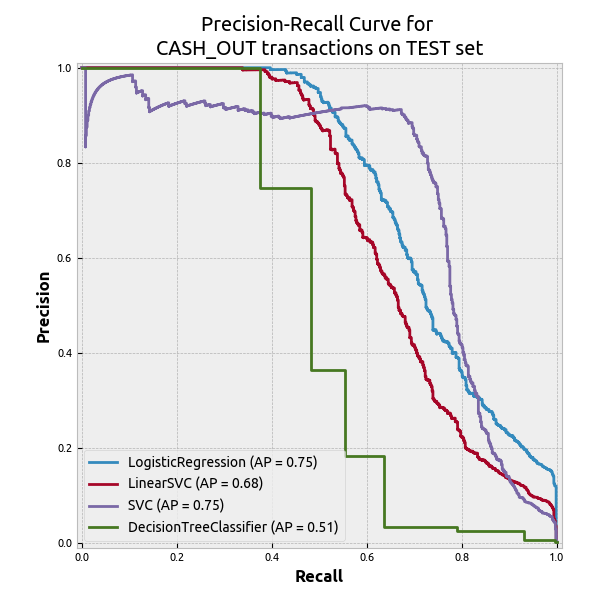
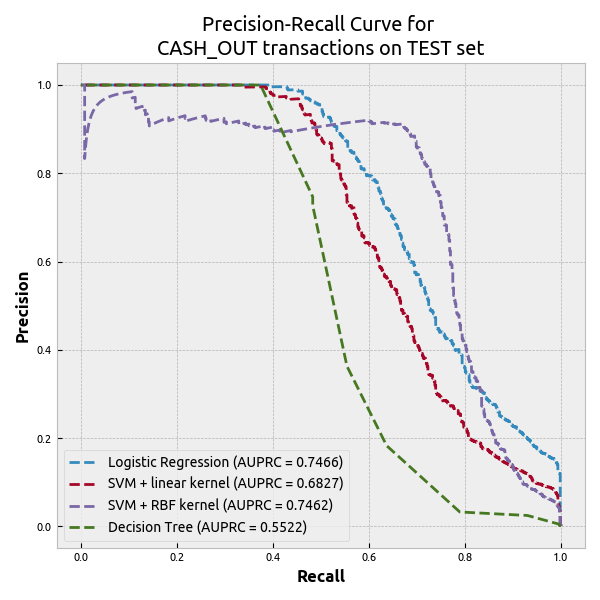
update: new model comparison logic to track AUPRC

diff --git a/experimentation/reproduce_oza_2018/src/evaluate_between_ideal_model_performance.py b/experimentation/reproduce_oza_2018/src/evaluate_between_ideal_model_performance.py
@@ -2,8 +2,9 @@ from pathlib import Path
 
 import matplotlib.pyplot as plt
 import matplotlib as mpl
+import numpy as np
 import pandas as pd
-from sklearn.metrics import PrecisionRecallDisplay
+from sklearn.metrics import precision_recall_curve, auc
 
 from absl import app, flags, logging
 
@@ -110,18 +111,22 @@ def main(_):
             utils.save_model(model, model_with_type_path)
         fitted_models[model_name] = model
 
-    def viz(X, y, label: str):
-        fig, ax = plt.subplots(figsize=(6, 6))
-
+    def compute(X, y, label: str, metrics: dict[str, list] | None = None):
+        model_precision_recall_auprc: list[
+            tuple[str, np.ndarray, np.ndarray, float]
+        ] = []
+        if metrics is None:
+            metrics = {
+                "data_set": [],
+                "model_name": [],
+                "transaction_type": [],
+                "class_weight": [],
+                "AUPRC": [],
+            }
         for model_name, fitted_model in fitted_models.items():
             if fitted_model is None:
-                logging.warning(
-                    f"  SKIP: skip visualising model_name='{model_name}' as no fitted "
-                    "model found."
-                )
                 continue
 
-            logging.info(f"  RUN: Plotting PRC for model_name='{model_name}'...")
             if model_name in ["svc_rbf", "svc_rbf_sampler"]:
                 model_with_type_dir = _get_model_with_type_dir(
                     model_name, FLAG.transaction_type
@@ -129,7 +134,7 @@ def main(_):
 
                 # Data scaling
                 scaler = utils.load_model(model_with_type_dir / "standard_scaler.pkl")
-                X_transformed = scaler.transform(X)
+                X_transformed = scaler.transform(X.copy())
 
                 # RBF sampling
                 if model_name == "svc_rbf_sampler":
@@ -137,40 +142,96 @@ def main(_):
                         model_with_type_dir / "rbf_sampler.pkl"
                     )
                     X_transformed = rbf_sampler.transform(X_transformed)
-
-                PrecisionRecallDisplay.from_estimator(
-                    fitted_model, X_transformed, y, pos_label=1, ax=ax
-                )
             else:
-                PrecisionRecallDisplay.from_estimator(
-                    fitted_model, X, y, pos_label=1, ax=ax
-                )
+                # Id transformation
+                X_transformed = X
+
+            try:
+                y_score = fitted_model.predict_proba(X_transformed)
+                y_score = y_score[:, 1]
+            except AttributeError:
+                y_score = fitted_model.decision_function(X_transformed)
+
+            precision, recall, _ = precision_recall_curve(y, y_score, pos_label=1)
+            auc_precision_recall = auc(recall, precision)
+            model_precision_recall_auprc.append(
+                (model_name, precision, recall, auc_precision_recall)
+            )
+
+            # model | transaction_type | class_weight | AUPRC
+
+            metrics["data_set"].append(label)
+            metrics["model_name"].append(model_name)
+            metrics["transaction_type"].append(FLAG.transaction_type)
+            metrics["class_weight"].append(
+                fitted_model.get_params()["class_weight"][1]
+            )  # class_weight is a dict {0: 1, 1: `fraud_weight`}
+            metrics["AUPRC"].append(auc_precision_recall)
+
+        return metrics, model_precision_recall_auprc
+
+    def viz(model_precision_recall_auprc, dataset_label: str):
+        fig, ax = plt.subplots(figsize=(6, 6))
+
+        title_name_map = {
+            "logreg": "Logistic Regression",
+            "svc_linear": "SVM + linear kernel",
+            "svc_rbf": "SVM + RBF kernel",
+            "svc_rbf_sampler": "SVM + RBF sampler kernel",
+            "decision_tree": "Decision Tree",
+        }
+        for model_name, precision, recall, auprc in model_precision_recall_auprc:
+            ax.plot(
+                recall,
+                precision,
+                label=f"{title_name_map[model_name]} (AUPRC = {auprc:.4f})",
+                linestyle="--",
+            )
 
         ax.set_title(
             "Precision-Recall Curve for \n"
-            f"{FLAG.transaction_type} transactions on {label} set"
+            f"{FLAG.transaction_type} transactions on {dataset_label} set"
         )
         ax.set_ylabel("Precision")
         ax.set_xlabel("Recall")
+        ax.legend()
 
         fig.tight_layout()
         fig.savefig(
             RESULT_FIG_DIR
-            / f"model_comparison_{FLAG.transaction_type}_{label.lower()}.png"
+            / f"model_comparison_{FLAG.transaction_type}_{dataset_label.lower()}.png"
         )
 
     logging.info(
         "\nRUN: Visualising PRC for model with ideal class weights on TRAINING set..."
     )
-    viz(X_train, y_train, label="TRAIN")
+    dataset_label = "TRAIN"
+    metrics, model_precision_recall_auprc = compute(
+        X_train, y_train, label=dataset_label
+    )
+    viz(model_precision_recall_auprc, dataset_label=dataset_label)
+
     logging.info(
         "\nRUN: Visualising PRC for model with ideal class weights on VALIDATION set..."
     )
-    viz(X_val, y_val, label="VALIDATION")
+    dataset_label = "VALIDATION"
+    metrics, model_precision_recall_auprc = compute(
+        X_val, y_val, label=dataset_label, metrics=metrics
+    )
+    viz(model_precision_recall_auprc, dataset_label=dataset_label)
+
     logging.info(
         "\nRUN: Visualising PRC for model with ideal class weights on TEST set..."
     )
-    viz(X_test, y_test, label="TEST")
+    dataset_label = "TEST"
+    metrics, model_precision_recall_auprc = compute(
+        X_test, y_test, label=dataset_label, metrics=metrics
+    )
+    viz(model_precision_recall_auprc, dataset_label=dataset_label)
+
+    pd.DataFrame(metrics).to_csv(
+        RESULT_DIR / f"result_auprc_{FLAG.transaction_type}.csv", index=False
+    )
 
 
 if __name__ == "__main__":
